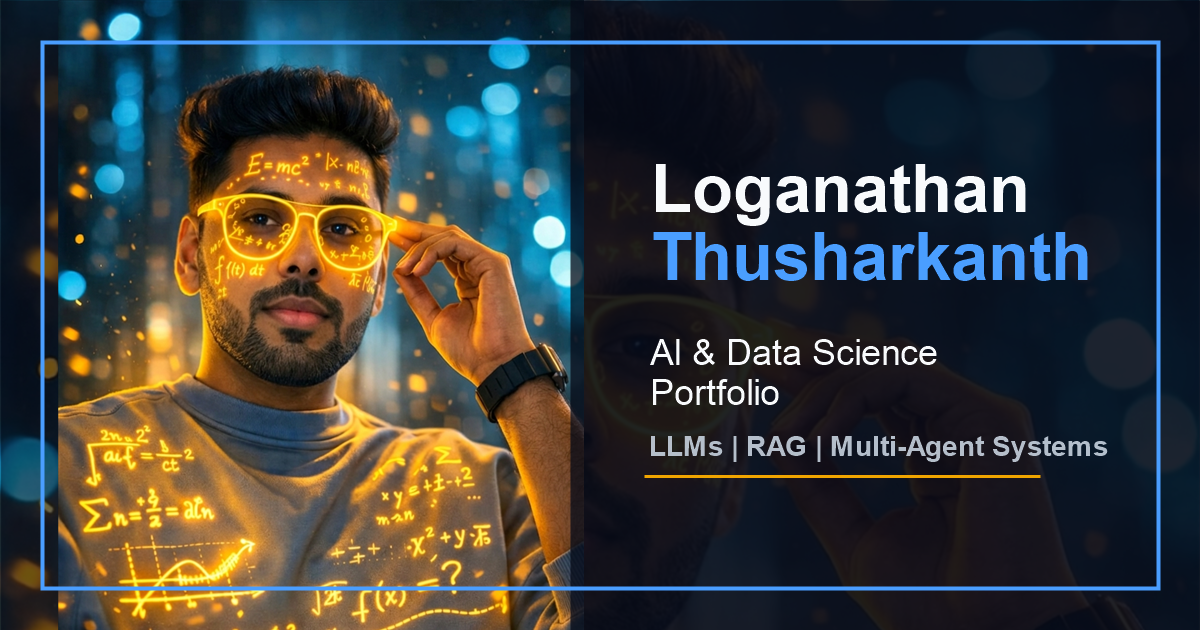
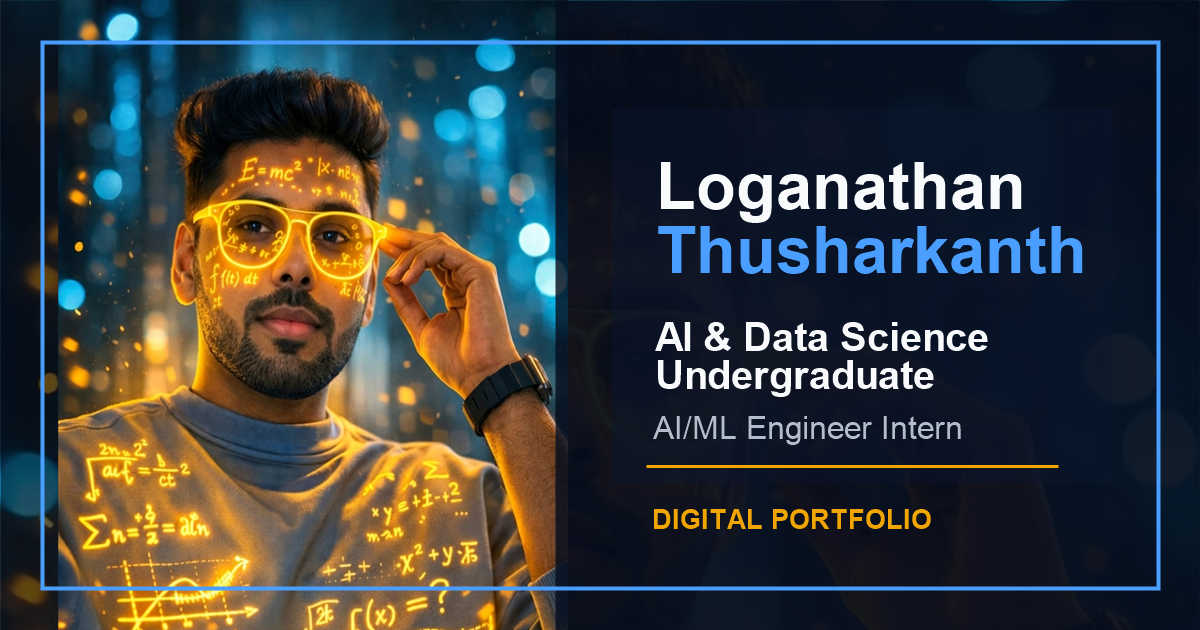
fix - OG preview img

diff --git a/advanced/index.html b/advanced/index.html
@@ -3,12 +3,12 @@
 <head>
     <meta charset="UTF-8">
     <meta name="viewport" content="width=device-width, initial-scale=1.0">
-    <meta name="description" content="Loganathan Thusharkanth - AI & Data Science Undergraduate and AI/ML Engineer Intern. Portfolio showcasing projects in LLMs, RAG, multi-agent systems, and data engineering.">
+    <meta name="description" content="AI & Data Science Undergraduate, AI/ML Engineer Intern, and portfolio of projects in LLMs, RAG, and intelligent systems.">
     <meta name="keywords" content="AI Engineer, Machine Learning, Data Science, RAG, LangGraph, LangChain, Portfolio, Loganathan Thusharkanth">
     <meta name="author" content="Loganathan Thusharkanth">
 
-    <meta property="og:title" content="Loganathan Thusharkanth | AI & Data Science Portfolio">
-    <meta property="og:description" content="AI & Data Science Undergraduate and AI/ML Engineer Intern building intelligent systems with LLMs, RAG, and multi-agent architectures.">
+    <meta property="og:title" content="Loganathan Thusharkanth">
+    <meta property="og:description" content="AI & Data Science Undergraduate, AI/ML Engineer Intern, and portfolio of projects in LLMs, RAG, and intelligent systems.">
     <meta property="og:type" content="website">
     <meta property="og:url" content="https://thusharkanth.github.io/portfolio/advanced/">
     <meta property="og:image" content="https://thusharkanth.github.io/portfolio/advanced/assets/og-preview.png">
@@ -20,8 +20,8 @@
     <meta property="og:site_name" content="Loganathan Thusharkanth Portfolio">
 
     <meta name="twitter:card" content="summary_large_image">
-    <meta name="twitter:title" content="Loganathan Thusharkanth | AI & Data Science Portfolio">
-    <meta name="twitter:description" content="AI & Data Science Undergraduate and AI/ML Engineer Intern building intelligent systems with LLMs, RAG, and multi-agent architectures.">
+    <meta name="twitter:title" content="Loganathan Thusharkanth">
+    <meta name="twitter:description" content="AI & Data Science Undergraduate, AI/ML Engineer Intern, and portfolio of projects in LLMs, RAG, and intelligent systems.">
     <meta name="twitter:image" content="https://thusharkanth.github.io/portfolio/advanced/assets/og-preview.png">
 
     <link rel="canonical" href="https://thusharkanth.github.io/portfolio/advanced/">

diff --git a/index.html b/index.html
@@ -3,11 +3,11 @@
 <head>
     <meta charset="UTF-8">
     <meta name="viewport" content="width=device-width, initial-scale=1.0">
-    <meta name="description" content="Loganathan Thusharkanth - AI & Data Science Undergraduate and AI/ML Engineer Intern. Portfolio showcasing LLMs, RAG, multi-agent systems, and data engineering.">
+    <meta name="description" content="AI & Data Science Undergraduate, AI/ML Engineer Intern, and portfolio of projects in LLMs, RAG, and intelligent systems.">
     <meta name="author" content="Loganathan Thusharkanth">
 
-    <meta property="og:title" content="Loganathan Thusharkanth | AI & Data Science Portfolio">
-    <meta property="og:description" content="AI & Data Science Undergraduate and AI/ML Engineer Intern building intelligent systems with LLMs, RAG, and multi-agent architectures.">
+    <meta property="og:title" content="Loganathan Thusharkanth">
+    <meta property="og:description" content="AI & Data Science Undergraduate, AI/ML Engineer Intern, and portfolio of projects in LLMs, RAG, and intelligent systems.">
     <meta property="og:type" content="website">
     <meta property="og:url" content="https://thusharkanth.github.io/portfolio/">
     <meta property="og:image" content="https://thusharkanth.github.io/portfolio/advanced/assets/og-preview.png">
@@ -17,8 +17,8 @@
     <meta property="og:site_name" content="Loganathan Thusharkanth Portfolio">
 
     <meta name="twitter:card" content="summary_large_image">
-    <meta name="twitter:title" content="Loganathan Thusharkanth | AI & Data Science Portfolio">
-    <meta name="twitter:description" content="AI & Data Science Undergraduate and AI/ML Engineer Intern building intelligent systems with LLMs, RAG, and multi-agent architectures.">
+    <meta name="twitter:title" content="Loganathan Thusharkanth">
+    <meta name="twitter:description" content="AI & Data Science Undergraduate, AI/ML Engineer Intern, and portfolio of projects in LLMs, RAG, and intelligent systems.">
     <meta name="twitter:image" content="https://thusharkanth.github.io/portfolio/advanced/assets/og-preview.png">
 
     <link rel="canonical" href="https://thusharkanth.github.io/portfolio/">
